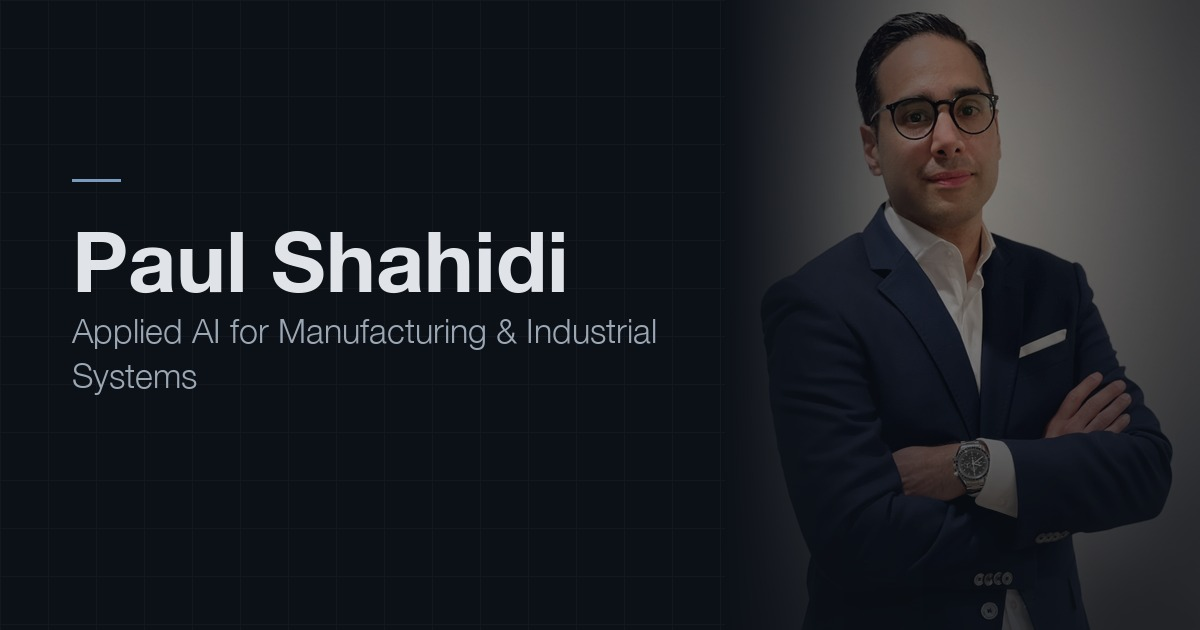
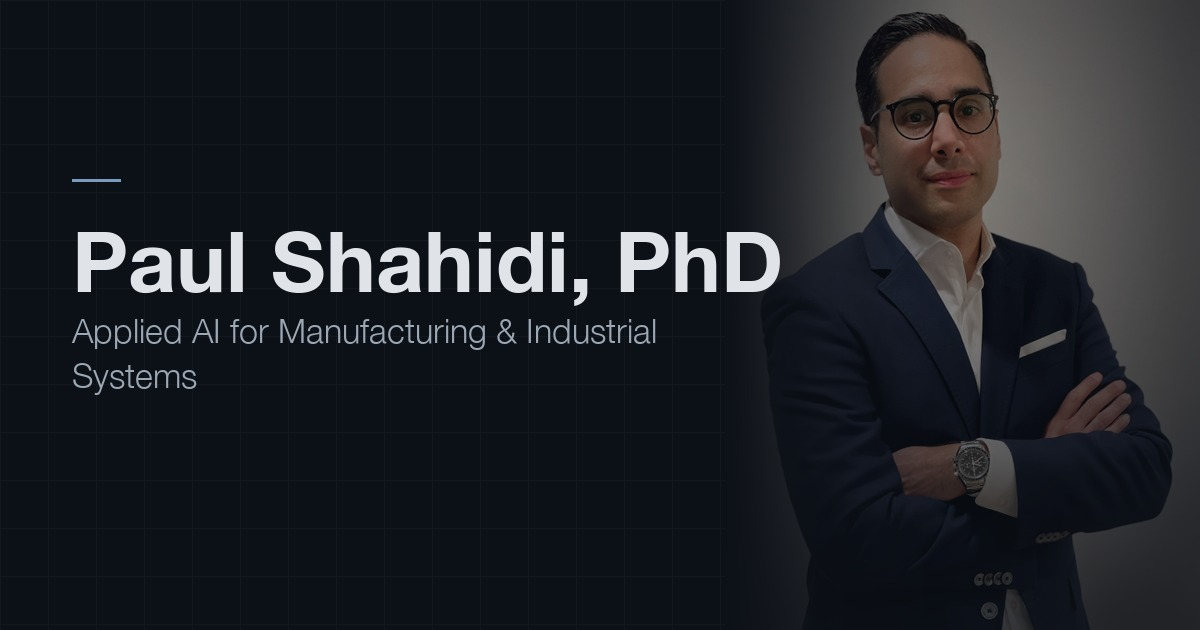
Add PhD credential to title, social metadata, and JSON-LD
Updates <title>, og:title, twitter:title, the JSON-LD honorificSuffix, and
the og-image social card to include the PhD credential. Hero, nav, and
footer remain unchanged per instructions.

Changed region(s): [[0.4625, 0.3619, 0.6475, 0.4825]]

diff --git a/dist/assets/index-zmruN_si.css b/dist/assets/index-zmruN_si.css
@@ -1,0 +1,1 @@
+@layer properties{@supports (((-webkit-hyphens:none)) and (not (margin-trim:inline))) or ((-moz-orient:inline) and (not (color:rgb(from red r g b)))){*,:before,:after,::backdrop{--tw-rotate-x:initial;--tw-rotate-y:initial;--tw-rotate-z:initial;--tw-skew-x:initial;--tw-skew-y:initial;--tw-space-y-reverse:0;--tw-border-style:solid;--tw-leading:initial;--tw-font-weight:initial;--tw-tracking:initial;--tw-outline-style:solid;--tw-blur:initial;--tw-brightness:initial;--tw-contrast:initial;--tw-grayscale:initial;--tw-hue-rotate:initial;--tw-invert:initial;--tw-opacity:initial;--tw-saturate:initial;--tw-sepia:initial;--tw-drop-shadow:initial;--tw-drop-shadow-color:initial;--tw-drop-shadow-alpha:100%;--tw-drop-shadow-size:initial;--tw-backdrop-blur:initial;--tw-backdrop-brightness:initial;--tw-backdrop-contrast:initial;--tw-backdrop-grayscale:initial;--tw-backdrop-hue-rotate:initial;--tw-backdrop-invert:initial;--tw-backdrop-opacity:initial;--tw-backdrop-saturate:initial;--tw-backdrop-sepia:initial;--tw-duration:initial}}}@layer theme{:root,:host{--font-sans:"Inter", ui-sans-serif, system-ui, sans-serif;--font-mono:"IBM Plex Mono", ui-monospace, monospace;--color-emerald-500:oklch(69.6% .17 162.48);--color-sky-500:oklch(68.5% .169 237.323);--color-neutral-100:oklch(97% 0 0);--color-neutral-500:oklch(55.6% 0 0);--color-neutral-600:oklch(43.9% 0 0);--color-neutral-700:oklch(37.1% 0 0);--color-neutral-800:oklch(26.9% 0 0);--color-white:#fff;--spacing:.25rem;--container-2xl:42rem;--container-3xl:48rem;--container-4xl:56rem;--container-6xl:72rem;--text-xs:.75rem;--text-xs--line-height:calc(1 / .75);--text-sm:.875rem;--text-sm--line-height:calc(1.25 / .875);--text-base:1rem;--text-base--line-height: 1.5 ;--text-lg:1.125rem;--text-lg--line-height:calc(1.75 / 1.125);--text-xl:1.25rem;--text-xl--line-height:calc(1.75 / 1.25);--text-2xl:1.5rem;--text-2xl--line-height:calc(2 / 1.5);--text-3xl:1.875rem;--text-3xl--line-height: 1.2 ;--text-5xl:3rem;--text-5xl--line-height:1;--text-6xl:3.75rem;--text-6xl--line-height:1;--text-7xl:4.5rem;--text-7xl--line-height:1;--text-8xl:6rem;--text-8xl--line-height:1;--font-weight-light:300;--font-weight-medium:500;--font-weight-semibold:600;--font-weight-bold:700;--tracking-tight:-.025em;--tracking-wider:.05em;--tracking-widest:.1em;--leading-tight:1.25;--leading-snug:1.375;--leading-relaxed:1.625;--leading-loose:2;--blur-md:12px;--default-transition-duration:.15s;--default-transition-timing-function:cubic-bezier(.4, 0, .2, 1);--default-font-family:var(--font-sans);--default-mono-font-family:var(--font-mono);--color-primary:#e0e4e8;--color-accent:#9ca7b4;--color-muted:#6b7a8d;--color-surface:#0c1017;--color-surface-elevated:#131a24;--color-border-subtle:#161f2b;--color-signal:#7a9bbd}}@layer base{*,:after,:before,::backdrop{box-sizing:border-box;border:0 solid;margin:0;padding:0}::file-selector-button{box-sizing:border-box;border:0 solid;margin:0;padding:0}html,:host{-webkit-text-size-adjust:100%;tab-size:4;line-height:1.5;font-family:var(--default-font-family,ui-sans-serif, system-ui, sans-serif, "Apple Color Emoji", "Segoe UI Emoji", "Segoe UI Symbol", "Noto Color Emoji");font-feature-settings:var(--default-font-feature-settings,normal);font-variation-settings:var(--default-font-variation-settings,normal);-webkit-tap-highlight-color:transparent}hr{height:0;color:inherit;border-top-width:1px}abbr:where([title]){-webkit-text-decoration:underline dotted;text-decoration:underline dotted}h1,h2,h3,h4,h5,h6{font-size:inherit;font-weight:inherit}a{color:inherit;-webkit-text-decoration:inherit;text-decoration:inherit}b,strong{font-weight:bolder}code,kbd,samp,pre{font-family:var(--default-mono-font-family,ui-monospace, SFMono-Regular, Menlo, Monaco, Consolas, "Liberation Mono", "Courier New", monospace);font-feature-settings:var(--default-mono-font-feature-settings,normal);font-variation-settings:var(--default-mono-font-variation-settings,normal);font-size:1em}small{font-size:80%}sub,sup{vertical-align:baseline;font-size:75%;line-height:0;position:relative}sub{bottom:-.25em}sup{top:-.5em}table{text-indent:0;border-color:inherit;border-collapse:collapse}:-moz-focusring{outline:auto}progress{vertical-align:baseline}summary{display:list-item}ol,ul,menu{list-style:none}img,svg,video,canvas,audio,iframe,embed,object{vertical-align:middle;display:block}img,video{max-width:100%;height:auto}button,input,select,optgroup,textarea{font:inherit;font-feature-settings:inherit;font-variation-settings:inherit;letter-spacing:inherit;color:inherit;opacity:1;background-color:#0000;border-radius:0}::file-selector-button{font:inherit;font-feature-settings:inherit;font-variation-settings:inherit;letter-spacing:inherit;color:inherit;opacity:1;background-color:#0000;border-radius:0}:where(select:is([multiple],[size])) optgroup{font-weight:bolder}:where(select:is([multiple],[size])) optgroup option{padding-inline-start:20px}::file-selector-button{margin-inline-end:4px}::placeholder{opacity:1}@supports (not ((-webkit-appearance:-apple-pay-button))) or (contain-intrinsic-size:1px){::placeholder{color:currentColor}@supports (color:color-mix(in lab,red,red)){::placeholder{color:color-mix(in oklab,currentcolor 50%,transparent)}}}textarea{resize:vertical}::-webkit-search-decoration{-webkit-appearance:none}::-webkit-date-and-time-value{min-height:1lh;text-align:inherit}::-webkit-datetime-edit{display:inline-flex}::-webkit-datetime-edit-fields-wrapper{padding:0}::-webkit-datetime-edit{padding-block:0}::-webkit-datetime-edit-year-field{padding-block:0}::-webkit-datetime-edit-month-field{padding-block:0}::-webkit-datetime-edit-day-field{padding-block:0}::-webkit-datetime-edit-hour-field{padding-block:0}::-webkit-datetime-edit-minute-field{padding-block:0}::-webkit-datetime-edit-second-field{padding-block:0}::-webkit-datetime-edit-millisecond-field{padding-block:0}::-webkit-datetime-edit-meridiem-field{padding-block:0}::-webkit-calendar-picker-indicator{line-height:1}:-moz-ui-invalid{box-shadow:none}button,input:where([type=button],[type=reset],[type=submit]){appearance:button}::file-selector-button{appearance:button}::-webkit-inner-spin-button{height:auto}::-webkit-outer-spin-button{height:auto}[hidden]:where(:not([hidden=until-found])){display:none!important}}@layer components;@layer utilities{.pointer-events-none{pointer-events:none}.invisible{visibility:hidden}.visible{visibility:visible}.absolute{position:absolute}.fixed{position:fixed}.relative{position:relative}.static{position:static}.inset-0{inset:calc(var(--spacing) * 0)}.start{inset-inline-start:var(--spacing)}.end{inset-inline-end:var(--spacing)}.top-0{top:calc(var(--spacing) * 0)}.top-\[30\%\]{top:30%}.top-\[55\%\]{top:55%}.top-\[78\%\]{top:78%}.right-0{right:calc(var(--spacing) * 0)}.left-0{left:calc(var(--spacing) * 0)}.z-0{z-index:0}.z-50{z-index:50}.z-\[1\]{z-index:1}.z-\[2\]{z-index:2}.z-\[3\]{z-index:3}.\!container{width:100%!important}@media(min-width:40rem){.\!container{max-width:40rem!important}}@media(min-width:48rem){.\!container{max-width:48rem!important}}@media(min-width:64rem){.\!container{max-width:64rem!important}}@media(min-width:80rem){.\!container{max-width:80rem!important}}@media(min-width:96rem){.\!container{max-width:96rem!important}}.container{width:100%}@media(min-width:40rem){.container{max-width:40rem}}@media(min-width:48rem){.container{max-width:48rem}}@media(min-width:64rem){.container{max-width:64rem}}@media(min-width:80rem){.container{max-width:80rem}}@media(min-width:96rem){.container{max-width:96rem}}.mx-auto{margin-inline:auto}.mt-0\.5{margin-top:calc(var(--spacing) * .5)}.mt-1{margin-top:calc(var(--spacing) * 1)}.mt-1\.5{margin-top:calc(var(--spacing) * 1.5)}.mt-2{margin-top:calc(var(--spacing) * 2)}.mt-3{margin-top:calc(var(--spacing) * 3)}.mt-4{margin-top:calc(var(--spacing) * 4)}.mt-5{margin-top:calc(var(--spacing) * 5)}.mt-6{margin-top:calc(var(--spacing) * 6)}.mt-8{margin-top:calc(var(--spacing) * 8)}.mt-16{margin-top:calc(var(--spacing) * 16)}.mt-\[6px\]{margin-top:6px}.mb-2{margin-bottom:calc(var(--spacing) * 2)}.mb-3{margin-bottom:calc(var(--spacing) * 3)}.mb-4{margin-bottom:calc(var(--spacing) * 4)}.mb-5{margin-bottom:calc(var(--spacing) * 5)}.mb-10{margin-bottom:calc(var(--spacing) * 10)}.ml-1\.5{margin-left:calc(var(--spacing) * 1.5)}.block{display:block}.contents{display:contents}.flex{display:flex}.grid{display:grid}.hidden{display:none}.inline{display:inline}.inline-block{display:inline-block}.inline-flex{display:inline-flex}.table{display:table}.h-1{height:calc(var(--spacing) * 1)}.h-1\.5{height:calc(var(--spacing) * 1.5)}.h-3{height:calc(var(--spacing) * 3)}.h-6{height:calc(var(--spacing) * 6)}.h-8{height:calc(var(--spacing) * 8)}.h-10{height:calc(var(--spacing) * 10)}.h-16{height:calc(var(--spacing) * 16)}.h-\[2px\]{height:2px}.h-full{height:100%}.h-px{height:1px}.max-h-0{max-height:calc(var(--spacing) * 0)}.max-h-96{max-height:calc(var(--spacing) * 96)}.max-h-\[600px\]{max-height:600px}.max-h-\[800px\]{max-height:800px}.min-h-\[85vh\]{min-height:85vh}.min-h-screen{min-height:100vh}.w-1{width:calc(var(--spacing) * 1)}.w-1\.5{width:calc(var(--spacing) * 1.5)}.w-3{width:calc(var(--spacing) * 3)}.w-4{width:calc(var(--spacing) * 4)}.w-5{width:calc(var(--spacing) * 5)}.w-6{width:calc(var(--spacing) * 6)}.w-8{width:calc(var(--spacing) * 8)}.w-10{width:calc(var(--spacing) * 10)}.w-32{width:calc(var(--spacing) * 32)}.w-40{width:calc(var(--spacing) * 40)}.w-56{width:calc(var(--spacing) * 56)}.w-full{width:100%}.max-w-2xl{max-width:var(--container-2xl)}.max-w-3xl{max-width:var(--container-3xl)}.max-w-6xl{max-width:var(--container-6xl)}.max-w-\[140px\]{max-width:140px}.max-w-prose{max-width:65ch}.flex-1{flex:1}.flex-shrink{flex-shrink:1}.shrink-0{flex-shrink:0}.rotate-180{rotate:180deg}.transform{transform:var(--tw-rotate-x,) var(--tw-rotate-y,) var(--tw-rotate-z,) var(--tw-skew-x,) var(--tw-skew-y,)}.cursor-pointer{cursor:pointer}.resize{resize:both}.grid-cols-1{grid-template-columns:repeat(1,minmax(0,1fr))}.grid-cols-\[4rem_1fr\]{grid-template-columns:4rem 1fr}.flex-col{flex-direction:column}.flex-wrap{flex-wrap:wrap}.items-baseline{align-items:baseline}.items-center{align-items:center}.items-start{align-items:flex-start}.justify-between{justify-content:space-between}.justify-center{justify-content:center}.gap-1\.5{gap:calc(var(--spacing) * 1.5)}.gap-2{gap:calc(var(--spacing) * 2)}.gap-3{gap:calc(var(--spacing) * 3)}.gap-4{gap:calc(var(--spacing) * 4)}.gap-5{gap:calc(var(--spacing) * 5)}.gap-6{gap:calc(var(--spacing) * 6)}.gap-8{gap:calc(var(--spacing) * 8)}.gap-\[5px\]{gap:5px}.gap-px{gap:1px}:where(.space-y-0>:not(:last-child)){--tw-space-y-reverse:0;margin-block-start:calc(calc(var(--spacing) * 0) * var(--tw-space-y-reverse));margin-block-end:calc(calc(var(--spacing) * 0) * calc(1 - var(--tw-space-y-reverse)))}:where(.space-y-1>:not(:last-child)){--tw-space-y-reverse:0;margin-block-start:calc(calc(var(--spacing) * 1) * var(--tw-space-y-reverse));margin-block-end:calc(calc(var(--spacing) * 1) * calc(1 - var(--tw-space-y-reverse)))}:where(.space-y-3>:not(:last-child)){--tw-space-y-reverse:0;margin-block-start:calc(calc(var(--spacing) * 3) * var(--tw-space-y-reverse));margin-block-end:calc(calc(var(--spacing) * 3) * calc(1 - var(--tw-space-y-reverse)))}:where(.space-y-4>:not(:last-child)){--tw-space-y-reverse:0;margin-block-start:calc(calc(var(--spacing) * 4) * var(--tw-space-y-reverse));margin-block-end:calc(calc(var(--spacing) * 4) * calc(1 - var(--tw-space-y-reverse)))}:where(.space-y-5>:not(:last-child)){--tw-space-y-reverse:0;margin-block-start:calc(calc(var(--spacing) * 5) * var(--tw-space-y-reverse));margin-block-end:calc(calc(var(--spacing) * 5) * calc(1 - var(--tw-space-y-reverse)))}:where(.space-y-6>:not(:last-child)){--tw-space-y-reverse:0;margin-block-start:calc(calc(var(--spacing) * 6) * var(--tw-space-y-reverse));margin-block-end:calc(calc(var(--spacing) * 6) * calc(1 - var(--tw-space-y-reverse)))}:where(.space-y-8>:not(:last-child)){--tw-space-y-reverse:0;margin-block-start:calc(calc(var(--spacing) * 8) * var(--tw-space-y-reverse));margin-block-end:calc(calc(var(--spacing) * 8) * calc(1 - var(--tw-space-y-reverse)))}.gap-x-3{column-gap:calc(var(--spacing) * 3)}.gap-y-1{row-gap:calc(var(--spacing) * 1)}.overflow-hidden{overflow:hidden}.rounded{border-radius:.25rem}.rounded-full{border-radius:3.40282e38px}.border{border-style:var(--tw-border-style);border-width:1px}.border-t{border-top-style:var(--tw-border-style);border-top-width:1px}.border-r{border-right-style:var(--tw-border-style);border-right-width:1px}.border-b{border-bottom-style:var(--tw-border-style);border-bottom-width:1px}.border-border-subtle{border-color:var(--color-border-subtle)}.border-neutral-500{border-color:var(--color-neutral-500)}.border-neutral-700{border-color:var(--color-neutral-700)}.border-neutral-800{border-color:var(--color-neutral-800)}.bg-\[\#0c1017\]{background-color:#0c1017}.bg-border-subtle{background-color:var(--color-border-subtle)}.bg-emerald-500{background-color:var(--color-emerald-500)}.bg-muted{background-color:var(--color-muted)}.bg-neutral-600{background-color:var(--color-neutral-600)}.bg-signal\/12{background-color:#7a9bbd1f}@supports (color:color-mix(in lab,red,red)){.bg-signal\/12{background-color:color-mix(in oklab,var(--color-signal) 12%,transparent)}}.bg-signal\/20{background-color:#7a9bbd33}@supports (color:color-mix(in lab,red,red)){.bg-signal\/20{background-color:color-mix(in oklab,var(--color-signal) 20%,transparent)}}.bg-signal\/30{background-color:#7a9bbd4d}@supports (color:color-mix(in lab,red,red)){.bg-signal\/30{background-color:color-mix(in oklab,var(--color-signal) 30%,transparent)}}.bg-sky-500{background-color:var(--color-sky-500)}.bg-surface{background-color:var(--color-surface)}.bg-surface-elevated{background-color:var(--color-surface-elevated)}.bg-surface\/90{background-color:#0c1017e6}@supports (color:color-mix(in lab,red,red)){.bg-surface\/90{background-color:color-mix(in oklab,var(--color-surface) 90%,transparent)}}.bg-transparent{background-color:#0000}.bg-white\/90{background-color:#ffffffe6}@supports (color:color-mix(in lab,red,red)){.bg-white\/90{background-color:color-mix(in oklab,var(--color-white) 90%,transparent)}}.object-contain{object-fit:contain}.p-0\.5{padding:calc(var(--spacing) * .5)}.p-6{padding:calc(var(--spacing) * 6)}.p-7{padding:calc(var(--spacing) * 7)}.p-8{padding:calc(var(--spacing) * 8)}.px-3{padding-inline:calc(var(--spacing) * 3)}.px-6{padding-inline:calc(var(--spacing) * 6)}.px-7{padding-inline:calc(var(--spacing) * 7)}.py-1\.5{padding-block:calc(var(--spacing) * 1.5)}.py-5{padding-block:calc(var(--spacing) * 5)}.py-6{padding-block:calc(var(--spacing) * 6)}.py-8{padding-block:calc(var(--spacing) * 8)}.py-10{padding-block:calc(var(--spacing) * 10)}.py-12{padding-block:calc(var(--spacing) * 12)}.pt-1{padding-top:calc(var(--spacing) * 1)}.pt-4{padding-top:calc(var(--spacing) * 4)}.pt-5{padding-top:calc(var(--spacing) * 5)}.pt-6{padding-top:calc(var(--spacing) * 6)}.pt-8{padding-top:calc(var(--spacing) * 8)}.pt-24{padding-top:calc(var(--spacing) * 24)}.pb-6{padding-bottom:calc(var(--spacing) * 6)}.pb-7{padding-bottom:calc(var(--spacing) * 7)}.pb-16{padding-bottom:calc(var(--spacing) * 16)}.font-mono{font-family:var(--font-mono)}.text-2xl{font-size:var(--text-2xl);line-height:var(--tw-leading,var(--text-2xl--line-height))}.text-5xl{font-size:var(--text-5xl);line-height:var(--tw-leading,var(--text-5xl--line-height))}.text-base{font-size:var(--text-base);line-height:var(--tw-leading,var(--text-base--line-height))}.text-lg{font-size:var(--text-lg);line-height:var(--tw-leading,var(--text-lg--line-height))}.text-sm{font-size:var(--text-sm);line-height:var(--tw-leading,var(--text-sm--line-height))}.text-xl{font-size:var(--text-xl);line-height:var(--tw-leading,var(--text-xl--line-height))}.text-xs{font-size:var(--text-xs);line-height:var(--tw-leading,var(--text-xs--line-height))}.text-\[10px\]{font-size:10px}.text-\[11px\]{font-size:11px}.leading-loose{--tw-leading:var(--leading-loose);line-height:var(--leading-loose)}.leading-none{--tw-leading:1;line-height:1}.leading-relaxed{--tw-leading:var(--leading-relaxed);line-height:var(--leading-relaxed)}.leading-snug{--tw-leading:var(--leading-snug);line-height:var(--leading-snug)}.leading-tight{--tw-leading:var(--leading-tight);line-height:var(--leading-tight)}.font-bold{--tw-font-weight:var(--font-weight-bold);font-weight:var(--font-weight-bold)}.font-light{--tw-font-weight:var(--font-weight-light);font-weight:var(--font-weight-light)}.font-medium{--tw-font-weight:var(--font-weight-medium);font-weight:var(--font-weight-medium)}.font-semibold{--tw-font-weight:var(--font-weight-semibold);font-weight:var(--font-weight-semibold)}.tracking-tight{--tw-tracking:var(--tracking-tight);letter-spacing:var(--tracking-tight)}.tracking-wider{--tw-tracking:var(--tracking-wider);letter-spacing:var(--tracking-wider)}.tracking-widest{--tw-tracking:var(--tracking-widest);letter-spacing:var(--tracking-widest)}.text-accent{color:var(--color-accent)}.text-emerald-500{color:var(--color-emerald-500)}.text-muted{color:var(--color-muted)}.text-muted\/40{color:#6b7a8d66}@supports (color:color-mix(in lab,red,red)){.text-muted\/40{color:color-mix(in oklab,var(--color-muted) 40%,transparent)}}.text-muted\/50{color:#6b7a8d80}@supports (color:color-mix(in lab,red,red)){.text-muted\/50{color:color-mix(in oklab,var(--color-muted) 50%,transparent)}}.text-muted\/60{color:#6b7a8d99}@supports (color:color-mix(in lab,red,red)){.text-muted\/60{color:color-mix(in oklab,var(--color-muted) 60%,transparent)}}.text-neutral-100{color:var(--color-neutral-100)}.text-neutral-500{color:var(--color-neutral-500)}.text-neutral-600{color:var(--color-neutral-600)}.text-neutral-700{color:var(--color-neutral-700)}.text-primary{color:var(--color-primary)}.text-primary\/90{color:#e0e4e8e6}@supports (color:color-mix(in lab,red,red)){.text-primary\/90{color:color-mix(in oklab,var(--color-primary) 90%,transparent)}}.text-signal\/40{color:#7a9bbd66}@supports (color:color-mix(in lab,red,red)){.text-signal\/40{color:color-mix(in oklab,var(--color-signal) 40%,transparent)}}.text-sky-500{color:var(--color-sky-500)}.lowercase{text-transform:lowercase}.uppercase{text-transform:uppercase}.antialiased{-webkit-font-smoothing:antialiased;-moz-osx-font-smoothing:grayscale}.opacity-0{opacity:0}.opacity-100{opacity:1}.outline{outline-style:var(--tw-outline-style);outline-width:1px}.blur{--tw-blur:blur(8px);filter:var(--tw-blur,) var(--tw-brightness,) var(--tw-contrast,) var(--tw-grayscale,) var(--tw-hue-rotate,) var(--tw-invert,) var(--tw-saturate,) var(--tw-sepia,) var(--tw-drop-shadow,)}.brightness-200{--tw-brightness:brightness(200%);filter:var(--tw-blur,) var(--tw-brightness,) var(--tw-contrast,) var(--tw-grayscale,) var(--tw-hue-rotate,) var(--tw-invert,) var(--tw-saturate,) var(--tw-sepia,) var(--tw-drop-shadow,)}.invert{--tw-invert:invert(100%);filter:var(--tw-blur,) var(--tw-brightness,) var(--tw-contrast,) var(--tw-grayscale,) var(--tw-hue-rotate,) var(--tw-invert,) var(--tw-saturate,) var(--tw-sepia,) var(--tw-drop-shadow,)}.filter{filter:var(--tw-blur,) var(--tw-brightness,) var(--tw-contrast,) var(--tw-grayscale,) var(--tw-hue-rotate,) var(--tw-invert,) var(--tw-saturate,) var(--tw-sepia,) var(--tw-drop-shadow,)}.backdrop-blur-md{--tw-backdrop-blur:blur(var(--blur-md));-webkit-backdrop-filter:var(--tw-backdrop-blur,) var(--tw-backdrop-brightness,) var(--tw-backdrop-contrast,) var(--tw-backdrop-grayscale,) var(--tw-backdrop-hue-rotate,) var(--tw-backdrop-invert,) var(--tw-backdrop-opacity,) var(--tw-backdrop-saturate,) var(--tw-backdrop-sepia,);backdrop-filter:var(--tw-backdrop-blur,) var(--tw-backdrop-brightness,) var(--tw-backdrop-contrast,) var(--tw-backdrop-grayscale,) var(--tw-backdrop-hue-rotate,) var(--tw-backdrop-invert,) var(--tw-backdrop-opacity,) var(--tw-backdrop-saturate,) var(--tw-backdrop-sepia,)}.transition{transition-property:color,background-color,border-color,outline-color,text-decoration-color,fill,stroke,--tw-gradient-from,--tw-gradient-via,--tw-gradient-to,opacity,box-shadow,transform,translate,scale,rotate,filter,-webkit-backdrop-filter,backdrop-filter,display,content-visibility,overlay,pointer-events;transition-timing-function:var(--tw-ease,var(--default-transition-timing-function));transition-duration:var(--tw-duration,var(--default-transition-duration))}.transition-all{transition-property:all;transition-timing-function:var(--tw-ease,var(--default-transition-timing-function));transition-duration:var(--tw-duration,var(--default-transition-duration))}.transition-colors{transition-property:color,background-color,border-color,outline-color,text-decoration-color,fill,stroke,--tw-gradient-from,--tw-gradient-via,--tw-gradient-to;transition-timing-function:var(--tw-ease,var(--default-transition-timing-function));transition-duration:var(--tw-duration,var(--default-transition-duration))}.transition-opacity{transition-property:opacity;transition-timing-function:var(--tw-ease,var(--default-transition-timing-function));transition-duration:var(--tw-duration,var(--default-transition-duration))}.transition-transform{transition-property:transform,translate,scale,rotate;transition-timing-function:var(--tw-ease,var(--default-transition-timing-function));transition-duration:var(--tw-duration,var(--default-transition-duration))}.duration-200{--tw-duration:.2s;transition-duration:.2s}.duration-300{--tw-duration:.3s;transition-duration:.3s}.duration-500{--tw-duration:.5s;transition-duration:.5s}@media(hover:hover){.group-hover\:w-8:is(:where(.group):hover *){width:calc(var(--spacing) * 8)}.group-hover\:border-neutral-600:is(:where(.group):hover *){border-color:var(--color-neutral-600)}.group-hover\:bg-primary:is(:where(.group):hover *){background-color:var(--color-primary)}.group-hover\:bg-signal:is(:where(.group):hover *){background-color:var(--color-signal)}.group-hover\:text-primary:is(:where(.group):hover *){color:var(--color-primary)}}.last\:border-0:last-child{border-style:var(--tw-border-style);border-width:0}@media(hover:hover){.hover\:border-neutral-700:hover{border-color:var(--color-neutral-700)}.hover\:bg-surface-elevated:hover{background-color:var(--color-surface-elevated)}.hover\:text-muted:hover{color:var(--color-muted)}.hover\:text-primary:hover{color:var(--color-primary)}.hover\:text-signal:hover{color:var(--color-signal)}.hover\:opacity-80:hover{opacity:.8}}@media(min-width:40rem){.sm\:grid-cols-3{grid-template-columns:repeat(3,minmax(0,1fr))}.sm\:grid-cols-\[5rem_1fr\]{grid-template-columns:5rem 1fr}.sm\:gap-8{gap:calc(var(--spacing) * 8)}.sm\:text-2xl{font-size:var(--text-2xl);line-height:var(--tw-leading,var(--text-2xl--line-height))}.sm\:text-6xl{font-size:var(--text-6xl);line-height:var(--tw-leading,var(--text-6xl--line-height))}.sm\:text-base{font-size:var(--text-base);line-height:var(--tw-leading,var(--text-base--line-height))}}@media(min-width:48rem){.md\:mt-3{margin-top:calc(var(--spacing) * 3)}.md\:mt-12{margin-top:calc(var(--spacing) * 12)}.md\:mb-4{margin-bottom:calc(var(--spacing) * 4)}.md\:mb-16{margin-bottom:calc(var(--spacing) * 16)}.md\:block{display:block}.md\:flex{display:flex}.md\:grid{display:grid}.md\:hidden{display:none}.md\:min-h-screen{min-height:100vh}.md\:max-w-4xl{max-width:var(--container-4xl)}.md\:grid-cols-2{grid-template-columns:repeat(2,minmax(0,1fr))}.md\:gap-5{gap:calc(var(--spacing) * 5)}.md\:gap-6{gap:calc(var(--spacing) * 6)}.md\:p-8{padding:calc(var(--spacing) * 8)}.md\:p-9{padding:calc(var(--spacing) * 9)}.md\:p-10{padding:calc(var(--spacing) * 10)}.md\:px-8{padding-inline:calc(var(--spacing) * 8)}.md\:px-9{padding-inline:calc(var(--spacing) * 9)}.md\:py-7{padding-block:calc(var(--spacing) * 7)}.md\:py-12{padding-block:calc(var(--spacing) * 12)}.md\:py-20{padding-block:calc(var(--spacing) * 20)}.md\:pt-8{padding-top:calc(var(--spacing) * 8)}.md\:pb-9{padding-bottom:calc(var(--spacing) * 9)}.md\:pb-32{padding-bottom:calc(var(--spacing) * 32)}.md\:text-3xl{font-size:var(--text-3xl);line-height:var(--tw-leading,var(--text-3xl--line-height))}.md\:text-7xl{font-size:var(--text-7xl);line-height:var(--tw-leading,var(--text-7xl--line-height))}.md\:text-base{font-size:var(--text-base);line-height:var(--tw-leading,var(--text-base--line-height))}.md\:text-lg{font-size:var(--text-lg);line-height:var(--tw-leading,var(--text-lg--line-height))}}@media(min-width:64rem){.lg\:col-span-3{grid-column:span 3/span 3}.lg\:col-span-9{grid-column:span 9/span 9}.lg\:grid-cols-2{grid-template-columns:repeat(2,minmax(0,1fr))}.lg\:grid-cols-3{grid-template-columns:repeat(3,minmax(0,1fr))}.lg\:grid-cols-12{grid-template-columns:repeat(12,minmax(0,1fr))}.lg\:gap-16{gap:calc(var(--spacing) * 16)}.lg\:text-8xl{font-size:var(--text-8xl);line-height:var(--tw-leading,var(--text-8xl--line-height))}}}html{scroll-behavior:smooth;scrollbar-width:thin;scrollbar-color:#1e2a38 transparent}body{line-height:1.7}::selection{color:#e0e4e8;background:#7a9bbd33}.grid-overlay{background-image:linear-gradient(#ffffff08 1px,#0000 1px),linear-gradient(90deg,#ffffff08 1px,#0000 1px);background-size:64px 64px}@keyframes signal-trace{0%{opacity:0;transform:translate(-100%)}10%{opacity:1}90%{opacity:1}to{opacity:0;transform:translate(100vw)}}.signal-line{animation:8s linear infinite signal-trace}.signal-line-delayed{animation:12s linear 4s infinite signal-trace}@keyframes pulse-subtle{0%,to{opacity:.3}50%{opacity:1}}.pulse-subtle{animation:3s ease-in-out infinite pulse-subtle}.section-divider{background:linear-gradient(90deg,#0000,#1e2a38 20% 80%,#0000);height:1px}.corner-accent:after{content:"";border-top:1px solid #1e2a38;border-right:1px solid #1e2a38;width:10px;height:10px;transition:border-color .2s;position:absolute;top:0;right:0}.group:hover .corner-accent:after{border-color:#2a3d52}@property --tw-rotate-x{syntax:"*";inherits:false}@property --tw-rotate-y{syntax:"*";inherits:false}@property --tw-rotate-z{syntax:"*";inherits:false}@property --tw-skew-x{syntax:"*";inherits:false}@property --tw-skew-y{syntax:"*";inherits:false}@property --tw-space-y-reverse{syntax:"*";inherits:false;initial-value:0}@property --tw-border-style{syntax:"*";inherits:false;initial-value:solid}@property --tw-leading{syntax:"*";inherits:false}@property --tw-font-weight{syntax:"*";inherits:false}@property --tw-tracking{syntax:"*";inherits:false}@property --tw-outline-style{syntax:"*";inherits:false;initial-value:solid}@property --tw-blur{syntax:"*";inherits:false}@property --tw-brightness{syntax:"*";inherits:false}@property --tw-contrast{syntax:"*";inherits:false}@property --tw-grayscale{syntax:"*";inherits:false}@property --tw-hue-rotate{syntax:"*";inherits:false}@property --tw-invert{syntax:"*";inherits:false}@property --tw-opacity{syntax:"*";inherits:false}@property --tw-saturate{syntax:"*";inherits:false}@property --tw-sepia{syntax:"*";inherits:false}@property --tw-drop-shadow{syntax:"*";inherits:false}@property --tw-drop-shadow-color{syntax:"*";inherits:false}@property --tw-drop-shadow-alpha{syntax:"<percentage>";inherits:false;initial-value:100%}@property --tw-drop-shadow-size{syntax:"*";inherits:false}@property --tw-backdrop-blur{syntax:"*";inherits:false}@property --tw-backdrop-brightness{syntax:"*";inherits:false}@property --tw-backdrop-contrast{syntax:"*";inherits:false}@property --tw-backdrop-grayscale{syntax:"*";inherits:false}@property --tw-backdrop-hue-rotate{syntax:"*";inherits:false}@property --tw-backdrop-invert{syntax:"*";inherits:false}@property --tw-backdrop-opacity{syntax:"*";inherits:false}@property --tw-backdrop-saturate{syntax:"*";inherits:false}@property --tw-backdrop-sepia{syntax:"*";inherits:false}@property --tw-duration{syntax:"*";inherits:false}

diff --git a/dist/index.html b/dist/index.html
@@ -11,7 +11,7 @@
     </script>
     <meta charset="UTF-8" />
     <meta name="viewport" content="width=device-width, initial-scale=1.0" />
-    <title>Paul Shahidi — Applied AI Leader</title>
+    <title>Paul Shahidi, PhD — Applied AI Leader</title>
     <meta name="description" content="Applied AI leader with 15+ years taking machine learning from prototype to production. Computer vision, predictive maintenance, and analytics platforms at Anduril, Apple, and PARC." />
     <link rel="icon" href="/favicon.ico" sizes="any" />
     <link rel="icon" type="image/png" href="/favicon.png" />
@@ -24,14 +24,14 @@
     <meta property="og:type" content="profile" />
     <meta property="og:site_name" content="Paul Shahidi" />
     <meta property="og:url" content="https://www.paulshahidi.com/" />
-    <meta property="og:title" content="Paul Shahidi — Applied AI Leader" />
+    <meta property="og:title" content="Paul Shahidi, PhD — Applied AI Leader" />
     <meta property="og:description" content="Fifteen years taking machine learning from prototype to production. Anduril, Apple, PARC." />
     <meta property="og:image" content="https://www.paulshahidi.com/og-image.jpg" />
     <meta property="og:image:width" content="1200" />
     <meta property="og:image:height" content="630" />
     <meta property="og:image:alt" content="Paul Shahidi, Applied AI Leader" />
     <meta name="twitter:card" content="summary_large_image" />
-    <meta name="twitter:title" content="Paul Shahidi — Applied AI Leader" />
+    <meta name="twitter:title" content="Paul Shahidi, PhD — Applied AI Leader" />
     <meta name="twitter:description" content="Fifteen years taking machine learning from prototype to production. Anduril, Apple, PARC." />
     <meta name="twitter:image" content="https://www.paulshahidi.com/og-image.jpg" />
 
@@ -40,6 +40,7 @@
       "@context": "https://schema.org",
       "@type": "Person",
       "name": "Paul Shahidi",
+      "honorificSuffix": "PhD",
       "alternateName": "Parham Shahidi",
       "url": "https://www.paulshahidi.com",
       "image": "https://www.paulshahidi.com/og-image.jpg",
@@ -69,8 +70,8 @@
       "sameAs": ["https://www.linkedin.com/in/pshahidi/"]
     }
     </script>
-    <script type="module" crossorigin src="/assets/index-DGpnvMfn.js"></script>
-    <link rel="stylesheet" crossorigin href="/assets/index-B3nbuRwP.css">
+    <script type="module" crossorigin src="/assets/index-4aNnUNYb.js"></script>
+    <link rel="stylesheet" crossorigin href="/assets/index-zmruN_si.css">
   </head>
   <body class="bg-[#0c1017] text-neutral-100 antialiased">
     <div id="root"></div>

diff --git a/index.html b/index.html
@@ -11,7 +11,7 @@
     </script>
     <meta charset="UTF-8" />
     <meta name="viewport" content="width=device-width, initial-scale=1.0" />
-    <title>Paul Shahidi — Applied AI Leader</title>
+    <title>Paul Shahidi, PhD — Applied AI Leader</title>
     <meta name="description" content="Applied AI leader with 15+ years taking machine learning from prototype to production. Computer vision, predictive maintenance, and analytics platforms at Anduril, Apple, and PARC." />
     <link rel="icon" href="/favicon.ico" sizes="any" />
     <link rel="icon" type="image/png" href="/favicon.png" />
@@ -24,14 +24,14 @@
     <meta property="og:type" content="profile" />
     <meta property="og:site_name" content="Paul Shahidi" />
     <meta property="og:url" content="https://www.paulshahidi.com/" />
-    <meta property="og:title" content="Paul Shahidi — Applied AI Leader" />
+    <meta property="og:title" content="Paul Shahidi, PhD — Applied AI Leader" />
     <meta property="og:description" content="Fifteen years taking machine learning from prototype to production. Anduril, Apple, PARC." />
     <meta property="og:image" content="https://www.paulshahidi.com/og-image.jpg" />
     <meta property="og:image:width" content="1200" />
     <meta property="og:image:height" content="630" />
     <meta property="og:image:alt" content="Paul Shahidi, Applied AI Leader" />
     <meta name="twitter:card" content="summary_large_image" />
-    <meta name="twitter:title" content="Paul Shahidi — Applied AI Leader" />
+    <meta name="twitter:title" content="Paul Shahidi, PhD — Applied AI Leader" />
     <meta name="twitter:description" content="Fifteen years taking machine learning from prototype to production. Anduril, Apple, PARC." />
     <meta name="twitter:image" content="https://www.paulshahidi.com/og-image.jpg" />
 
@@ -40,6 +40,7 @@
       "@context": "https://schema.org",
       "@type": "Person",
       "name": "Paul Shahidi",
+      "honorificSuffix": "PhD",
       "alternateName": "Parham Shahidi",
       "url": "https://www.paulshahidi.com",
       "image": "https://www.paulshahidi.com/og-image.jpg",
